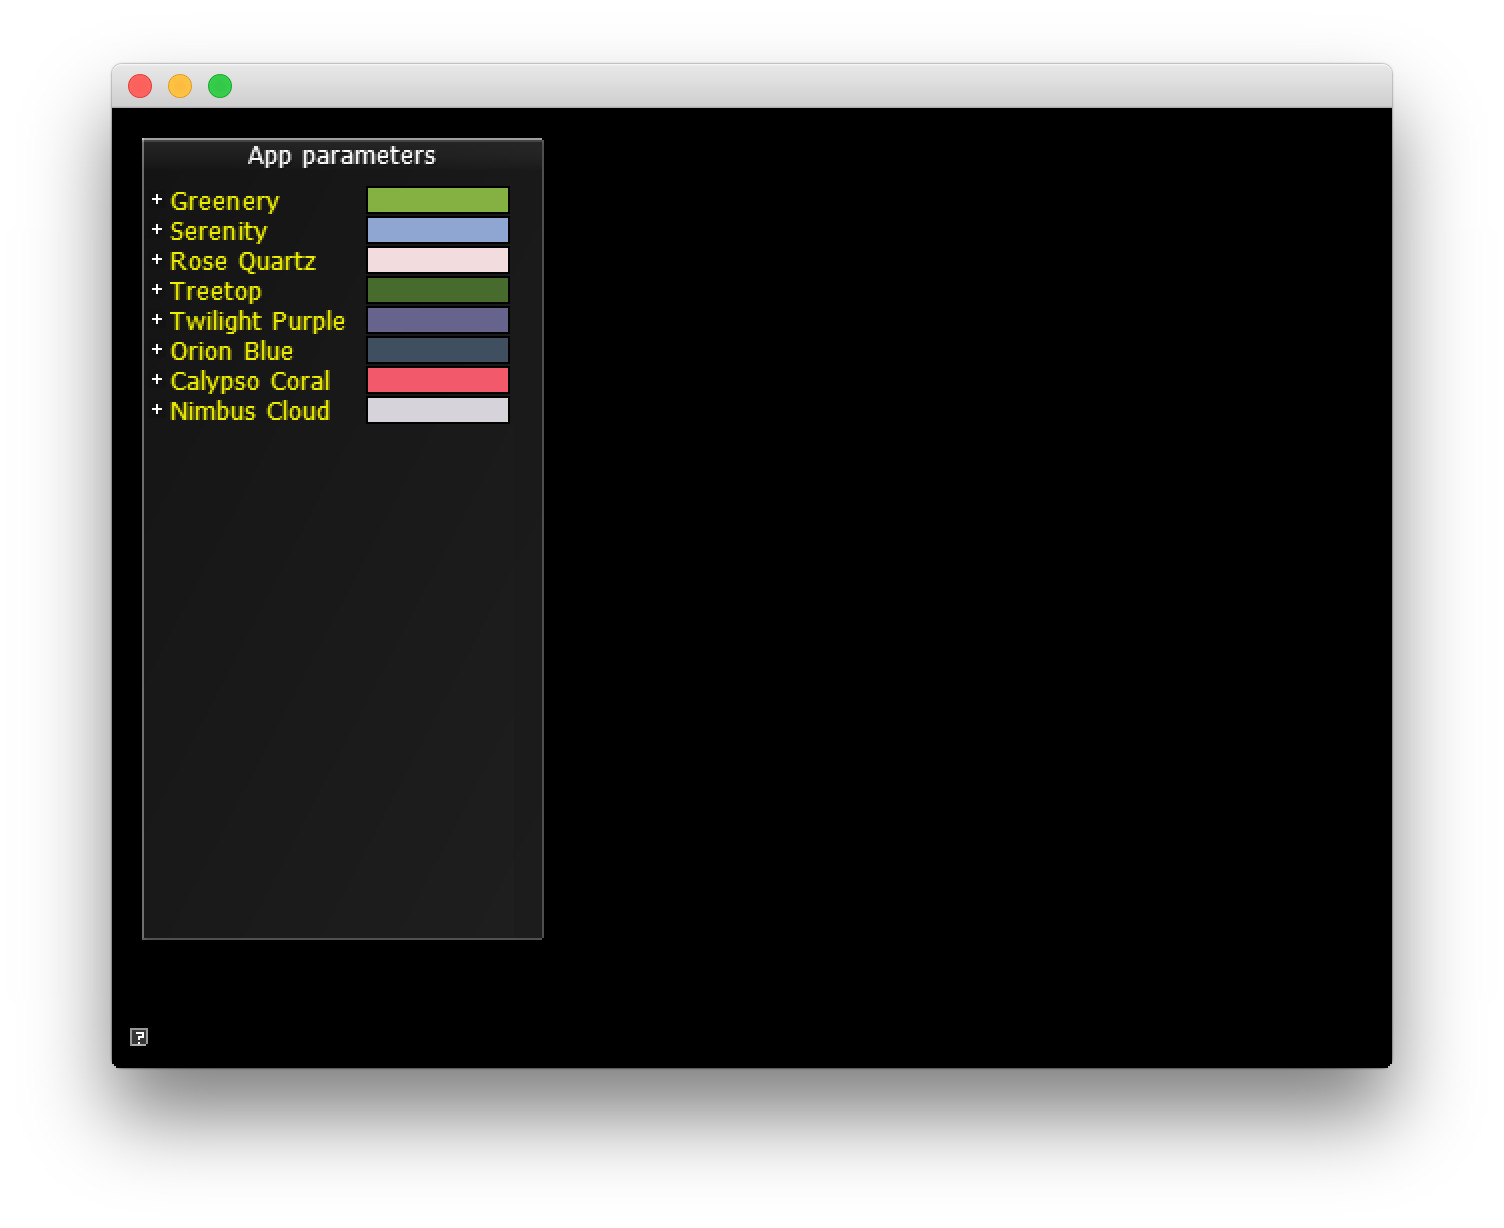
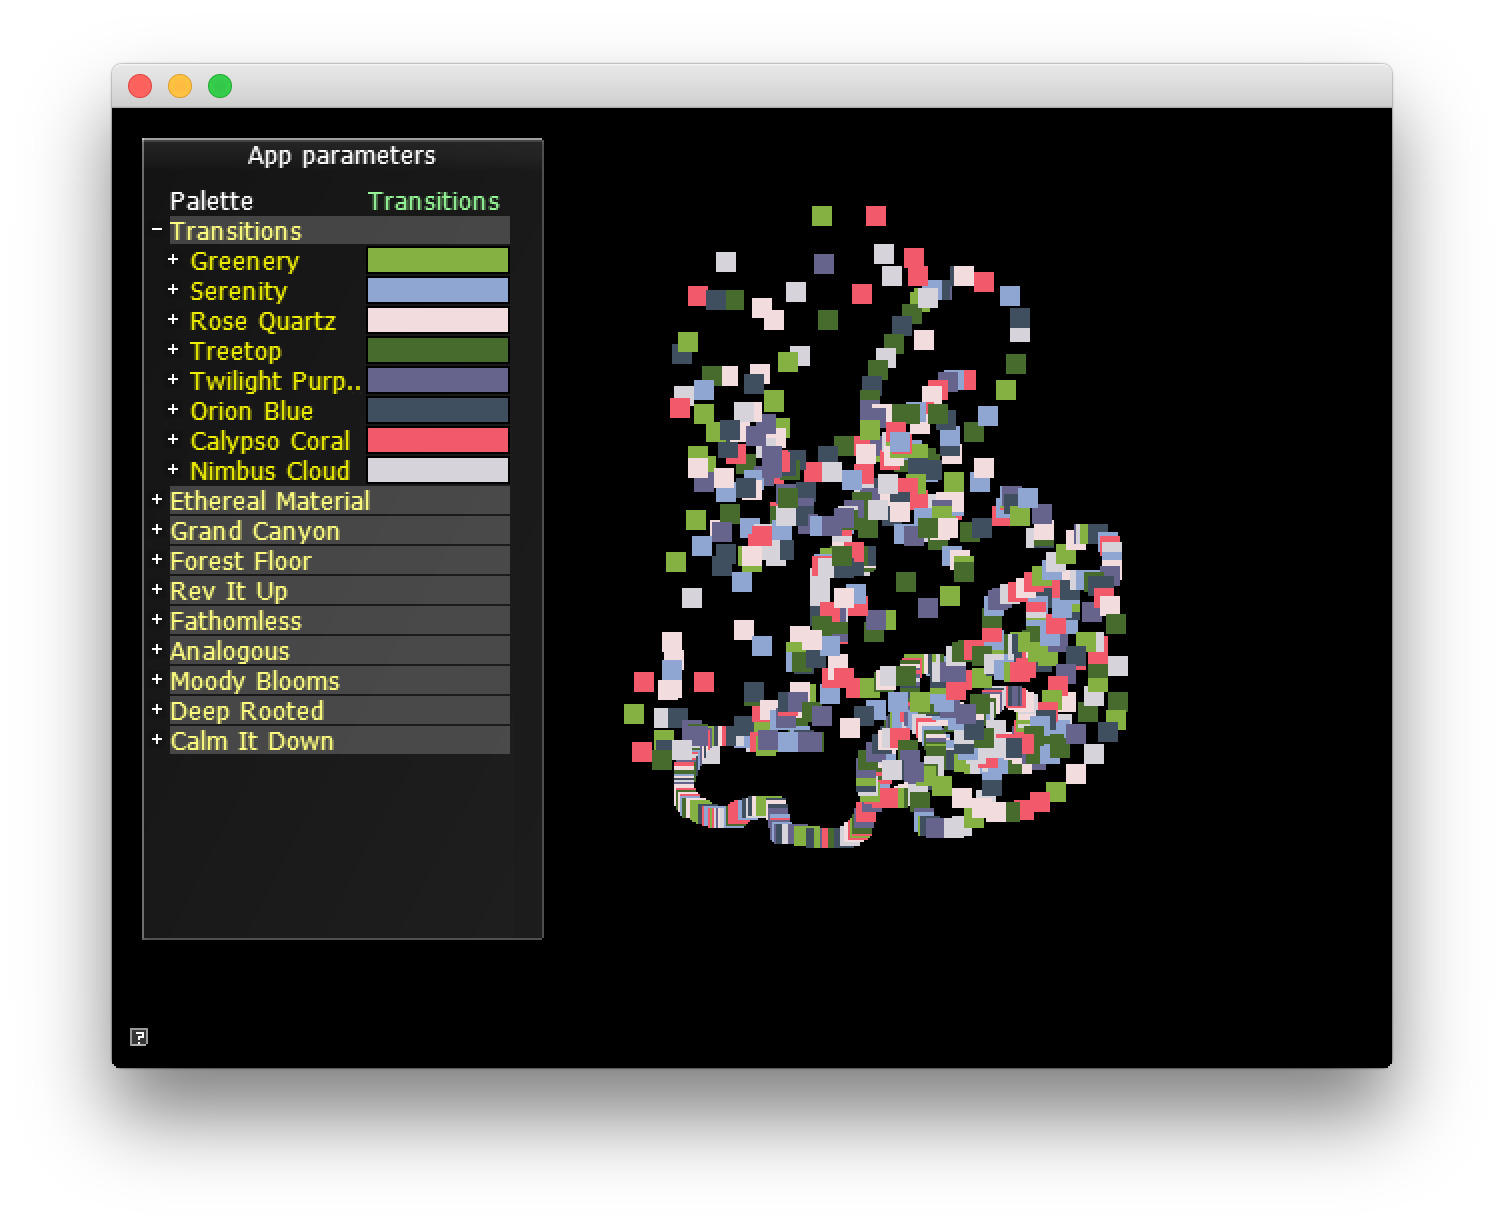
fixed param overwriting and updated screenshot

Changed region(s): [[0.4062, 0.1547, 0.75, 0.7117], [0.0938, 0.1547, 0.3438, 0.6189]]

diff --git a/src/ColorSaverApp.cpp b/src/ColorSaverApp.cpp
@@ -94,19 +94,20 @@ void ColorSaverApp::setup()
 void ColorSaverApp::mouseDown( MouseEvent event )
 {
     isMouseDown = true;
-    Config::instance()->reload();
-    mPalettes = Config::instance()->getPaletteData();
     
-    int numPalettes = mPalettes.size();
-    for(int j = 0; j< numPalettes; j++){
-        int numColors = mPalettes.at(j).mColors.size();
-        
-        for(int i=0;i<numColors;i++){
-            
-            mParams->addParam( mPalettes.at(j).mColors.at(i).name, &mPalettes.at(j).mColors.at(i).color ).group( mPalettes.at(j).name );
-            
-        }
-    }
+//    Config::instance()->reload();
+//    mPalettes = Config::instance()->getPaletteData();
+//    
+//    int numPalettes = mPalettes.size();
+//    for(int j = 0; j< numPalettes; j++){
+//        int numColors = mPalettes.at(j).mColors.size();
+//        
+//        for(int i=0;i<numColors;i++){
+//            
+//            mParams->addParam( mPalettes.at(j).mColors.at(i).name, &mPalettes.at(j).mColors.at(i).color ).group( mPalettes.at(j).name );
+//            
+//        }
+//    }
 }
 void ColorSaverApp::mouseUp( MouseEvent event ){
     isMouseDown = false;
